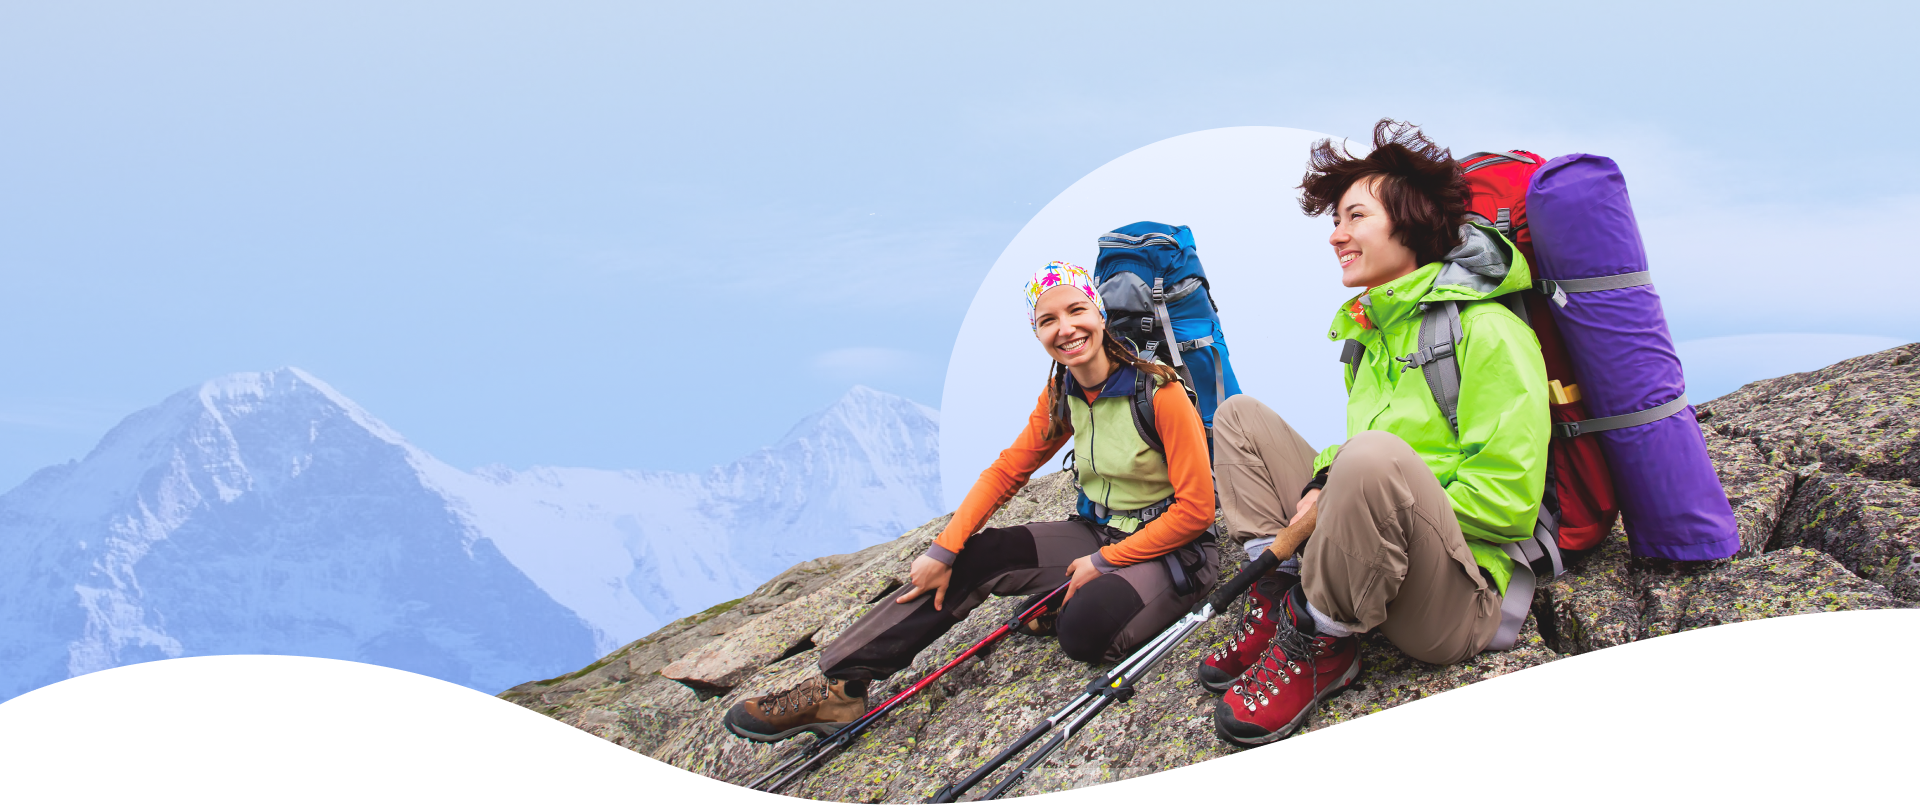
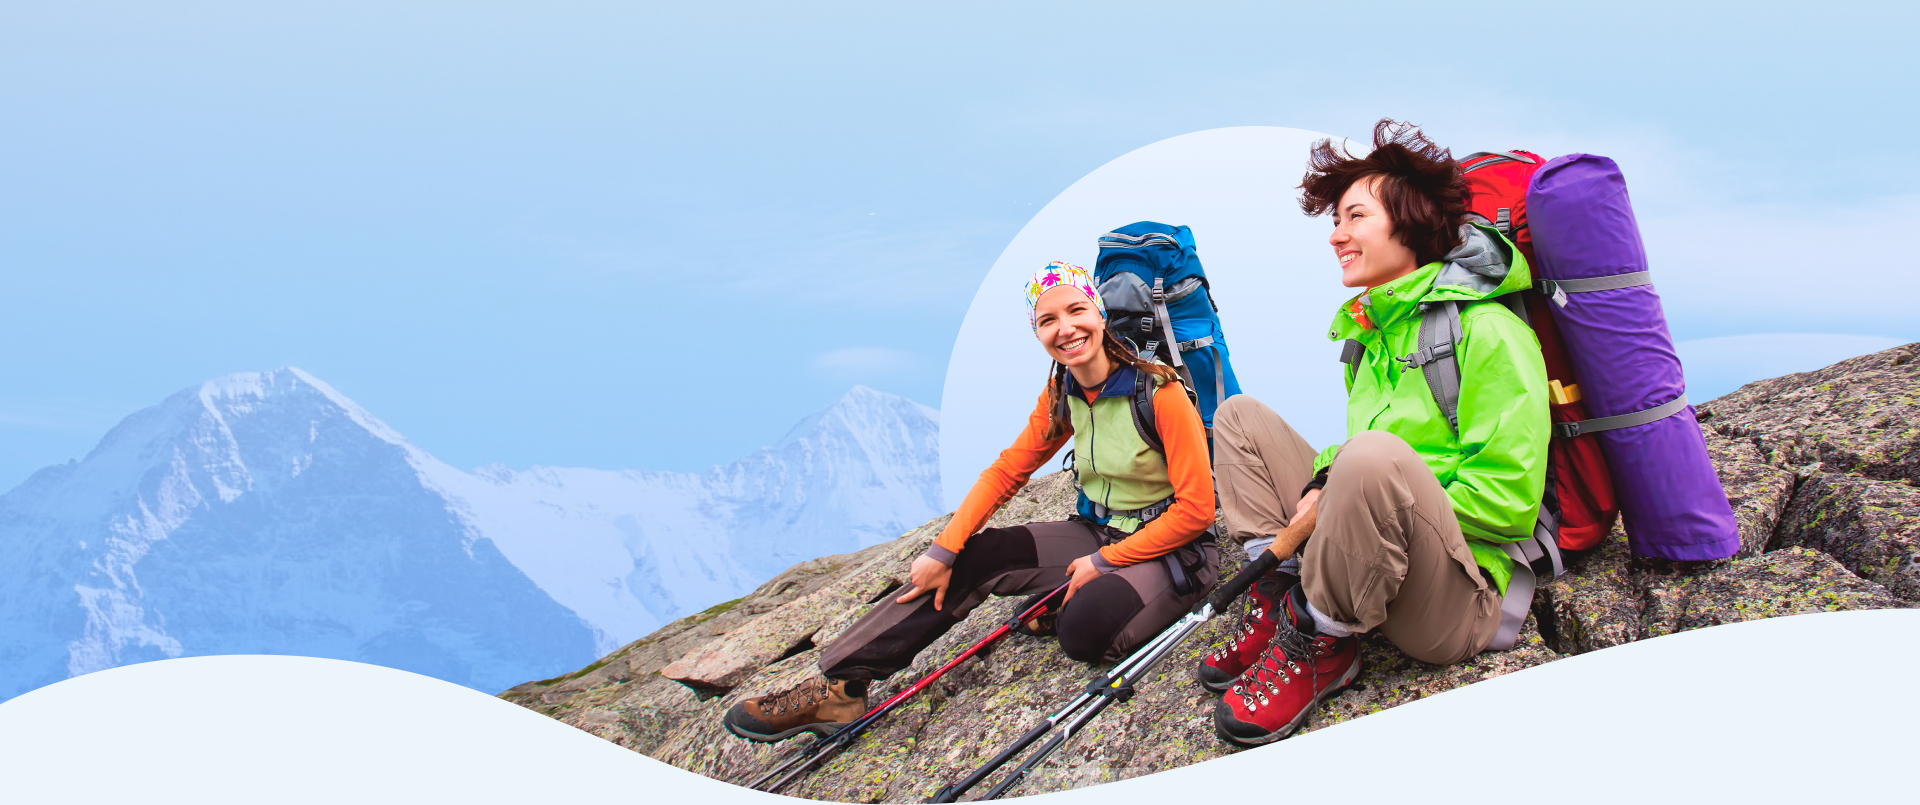
C:/Program Files/Git/

diff --git a/css/style.css b/css/style.css
@@ -454,7 +454,7 @@ template {
 .hero {
   position: relative;
   min-height: 937.42px;
-  background: url("../img/hero.bg.png") #c8dcf3 no-repeat center bottom/cover; }
+  background: url("../img/hero.bg.png") no-repeat center bottom/cover; }
   .hero__title {
     padding-top: 213px;
     font-size: 72px;
@@ -1089,7 +1089,8 @@ template {
     margin: 30px auto; }
   .hero {
     background-size: auto;
-    background-position: calc(46% + 20%) bottom; }
+    background-position: calc(46% + 20%) bottom;
+    background: url("../img/hero.bg.png") #c8dcf3 no-repeat center bottom/cover; }
     .hero__title {
       padding-top: 124px; }
   .descrip-card {

diff --git a/scss/templates/_hero.scss b/scss/templates/_hero.scss
@@ -1,7 +1,7 @@
 .hero {
     position: relative;
     min-height: 937.42px;
-    background: url('../img/hero.bg.png') #c8dcf3 no-repeat center bottom / cover;
+    background: url('../img/hero.bg.png') no-repeat center bottom / cover;
     &__title {
         padding-top: 213px;
         font-size: 72px;

diff --git a/scss/_media.scss b/scss/_media.scss
@@ -160,7 +160,7 @@
     .hero {
         background-size: auto;
         background-position: calc(46% + 20%) bottom;
-
+        background: url('../img/hero.bg.png') #c8dcf3 no-repeat center bottom / cover;
         &__title {
             padding-top: 124px;
         }
